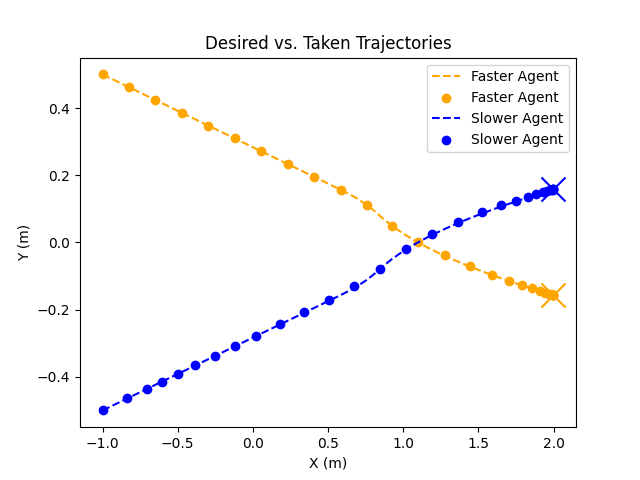
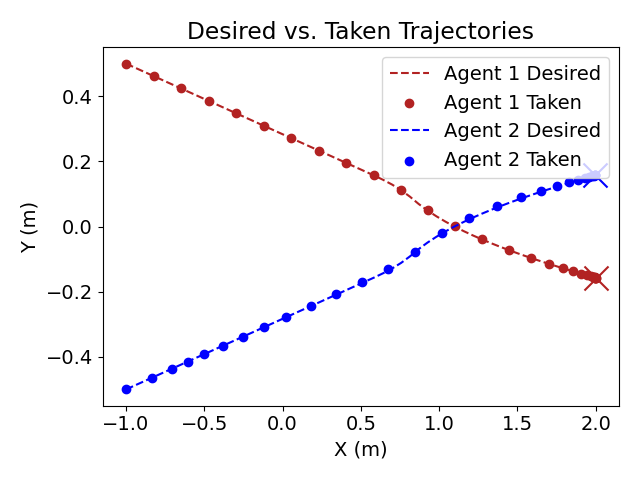
Temp

diff --git a/generate_plots.py b/generate_plots.py
@@ -5,8 +5,12 @@ from data_logger import DataLogger
 from run_experiments import get_scenario
 from util import get_ray_intersection_point
 import matplotlib.pyplot as plt
+import matplotlib
 
-COLORS = ['orange', 'blue', 'magenta']
+matplotlib.rcParams.update({'font.size': 14})
+
+COLORS = ['firebrick', 'blue', 'magenta']
+LIGHT_COLORS = ['sandybrown', 'cornflowerblue']
 
 # SCENARIO = 'Doorway'
 SCENARIO = 'Intersection'
@@ -42,8 +46,17 @@ def gen_figure(ys, title, labels, ylabel, filesuffix, ylims=None, add_dotted=Non
     figcount += 1
     plt.title(title)
     for i, (y, label) in enumerate(zip(ys, labels)):
-        plt.plot(y, label = label, color=COLORS[i])
-    
+        if verticalline is None:
+            plt.plot(y, label = label, color=COLORS[i])
+        else:
+            break_val = verticalline[0]
+            plt.plot(y[:break_val + 1], label = label + " Before Cross", color=LIGHT_COLORS[i], linestyle='--', linewidth=2.0)
+            plt.plot([None] * break_val + y[break_val:], label = label + " After Cross", color=COLORS[i], linewidth=2.0)
+
+    if verticalline is not None:
+        break_val = verticalline[0]
+        plt.axvline(x=break_val, color='k', linestyle='--', linewidth=2.0, label="Crossing Point")
+
     if ylims is not None:
         plt.ylim(ylims)
 
@@ -51,18 +64,19 @@ def gen_figure(ys, title, labels, ylabel, filesuffix, ylims=None, add_dotted=Non
         val, label = add_dotted
         plt.plot([val if i is not None else None for i in ys[0]], label=label, linestyle='--', color='red')
 
-    if verticalline is not None:
-        val, label = verticalline
-        xmin, xmax = plt.gca().get_xlim()
-        ymin, ymax = plt.gca().get_ylim()
-        plt.fill_between(range(int(xmin) - 1, val + 1), ymin, ymax, alpha=0.5, color='darkred', label="Before Crossing")
-        plt.fill_between(range(val, int(xmax) + 2), ymin, ymax, alpha=0.5, color='green', label="After Crossing")
-        plt.gca().set_ylim([ymin, ymax])
-        plt.gca().set_xlim([xmin, xmax])
+    # if verticalline is not None:
+        # val, label = verticalline
+        # xmin, xmax = plt.gca().get_xlim()
+        # ymin, ymax = plt.gca().get_ylim()
+        # plt.fill_between(range(int(xmin) - 1, val + 1), ymin, ymax, alpha=0.5, color='darkred', label="Before Crossing")
+        # plt.fill_between(range(val, int(xmax) + 2), ymin, ymax, alpha=0.5, color='green', label="After Crossing")
+        # plt.gca().set_ylim([ymin, ymax])
+        # plt.gca().set_xlim([xmin, xmax])
 
     plt.ylabel(ylabel)
     plt.xlabel('Iteration')
-    plt.legend()
+    plt.legend(loc='upper right', prop={'size': 12})
+    plt.tight_layout()
 
     plt.savefig(f'experiment_results/histories/{RUN_AGENT}_{SCENARIO}_{filesuffix}.png')
     print("Saved plot to", f"experiment_results/histories/{RUN_AGENT}_{SCENARIO}_{filesuffix}.png")
@@ -73,14 +87,15 @@ def gen_traj_plot(desireds, trajs, labels, title, filesuffix, plot_skip = 3):
     figcount += 1
     plt.title(title)
     for i, (desired, traj, label) in enumerate(zip(desireds, trajs, labels)):
-        plt.plot(desired[:, 0], desired[:, 1], linestyle='--', label = label, color=COLORS[i])
-        plt.scatter(traj[::plot_skip, 0], traj[::plot_skip, 1], label = label, color=COLORS[i])
+        plt.plot(desired[:, 0], desired[:, 1], linestyle='--', label = label + " Desired", color=COLORS[i])
+        plt.scatter(traj[::plot_skip, 0], traj[::plot_skip, 1], label = label + " Taken", color=COLORS[i])
         plt.scatter([traj[-1][0]], [traj[-1][1]], marker='x', s=300, color=COLORS[i])
 
     plt.ylabel('Y (m)')
     plt.xlabel('X (m)')
-    plt.legend()
+    plt.legend(loc='upper right')
 
+    plt.tight_layout()
     plt.savefig(f'experiment_results/desired_paths/{RUN_AGENT}_{SCENARIO}_{filesuffix}.png')
     print("Saved plot to", f"experiment_results/desired_paths/{RUN_AGENT}_{SCENARIO}_{filesuffix}.png")
 
@@ -121,12 +136,12 @@ for iteration in logger.data['iterations']:
 
     liveness_cbf_vals.append(get_liveness_cbf(ego_state, opp_state, first_reached_goal < second_reached_goal))
 
-liveness_last_idx = liveness_cbf_vals.index(None)
+liveness_last_idx = liveness_cbf_vals[1:].index(None) + 1
 liveness_ylim = 0.6 if SCENARIO == "Doorway" else 5.0
 
-first_name = "Faster" if first_reached_goal < second_reached_goal else "Slower"
-second_name = "Slower" if first_reached_goal < second_reached_goal else "Faster"
-gen_figure([vels_0, vels_1], "Agent Velocity", [f'{first_name} Agent', f'{second_name} Agent'], "Agent Velocity (m/s)", "velocities", verticalline=(liveness_last_idx, "Last Intersecting Trajectories"))
-gen_figure([obs_dist_vals_0, obs_dist_vals_1, opp_dist_vals], "Distance CBF Violation", [f'{first_name} Agent Static Obstacle Distance', f'{second_name} Agent Static Obstacle Distance', 'Inter-Agent Distance'],  "Distance (m)", "distance_cbf", add_dotted=(0, 'CBF Boundary'), ylims=[-0.2, np.max([obs_dist_vals_0, obs_dist_vals_1, opp_dist_vals])])
+# first_name = "Faster" if first_reached_goal < second_reached_goal else "Slower"
+# second_name = "Slower" if first_reached_goal < second_reached_goal else "Faster"
+gen_figure([vels_0, vels_1], "Agent Velocity", [f'Agent 1', f'Agent 2'], "Agent Velocity (m/s)", "velocities", verticalline=(liveness_last_idx, "Last Intersecting Trajectories"))
+gen_figure([obs_dist_vals_0, obs_dist_vals_1, opp_dist_vals], "Distance CBF Violation", [f'Agent 1 Static Obstacle Distance', f'Agent 2 Static Obstacle Distance', 'Inter-Agent Distance'],  "Distance (m)", "distance_cbf", add_dotted=(0, 'CBF Boundary'), ylims=[-0.2, np.max([obs_dist_vals_0, obs_dist_vals_1, opp_dist_vals])])
 gen_figure([liveness_cbf_vals], "Liveness CBF Violation", [f'Agent Liveness'],  "Liveness (s)", "liveness_cbf", add_dotted=(0, 'CBF Boundary'), ylims=[-0.2, liveness_ylim])
-gen_traj_plot([desired0, desired1], [traj0, traj1], [f"{first_name} Agent", f"{second_name} Agent"], "Desired vs. Taken Trajectories", "desired")
+gen_traj_plot([desired0, desired1], [traj0, traj1], [f"Agent 1", f"Agent 2"], "Desired vs. Taken Trajectories", "desired")

diff --git a/run_experiments.py b/run_experiments.py
@@ -22,10 +22,10 @@ SCENARIO = 'Intersection'
 
 # RUN_AGENT = 'MPC'
 # RUN_AGENT = 'MPC_UNLIVE'
-RUN_AGENT = 'BarrierNet'
-# RUN_AGENT = 'LiveNet'
+# RUN_AGENT = 'BarrierNet'
+RUN_AGENT = 'LiveNet'
 
-SIM_RESULTS_MODE = True
+SIM_RESULTS_MODE = False
 
 NUM_SIMS = 50
 
@@ -104,7 +104,7 @@ def get_scenario(scenario_type):
         # return DoorwayScenario(initial_x=scenario_params[0], initial_y=scenario_params[1], goal_x=scenario_params[2], goal_y=scenario_params[3])
         return DoorwayScenario(initial_x=scenario_params[0], initial_y=scenario_params[1], goal_x=scenario_params[2], goal_y=scenario_params[3], start_facing_goal=True, initial_vel=0.3)
     elif scenario_type == 'Intersection':
-        return IntersectionScenario()
+        return IntersectionScenario(start_vel=0.3)
 
 
 if __name__ == '__main__':

diff --git a/summarize_metrics.py b/summarize_metrics.py
@@ -2,12 +2,12 @@ import config
 import numpy as np
 
 # AGENT = 'MPC'
-AGENT = 'MPC_UNLIVE'
-# AGENT = 'BarrierNet'
+# AGENT = 'MPC_UNLIVE'
+AGENT = 'BarrierNet'
 # AGENT = 'LiveNet'
 
-SCENARIO = 'Doorway'
-# SCENARIO = 'Intersection'
+# SCENARIO = 'Doorway'
+SCENARIO = 'Intersection'
 
 metrics = np.loadtxt(f'experiment_results/{AGENT}_{SCENARIO}.csv', delimiter=',')
 
